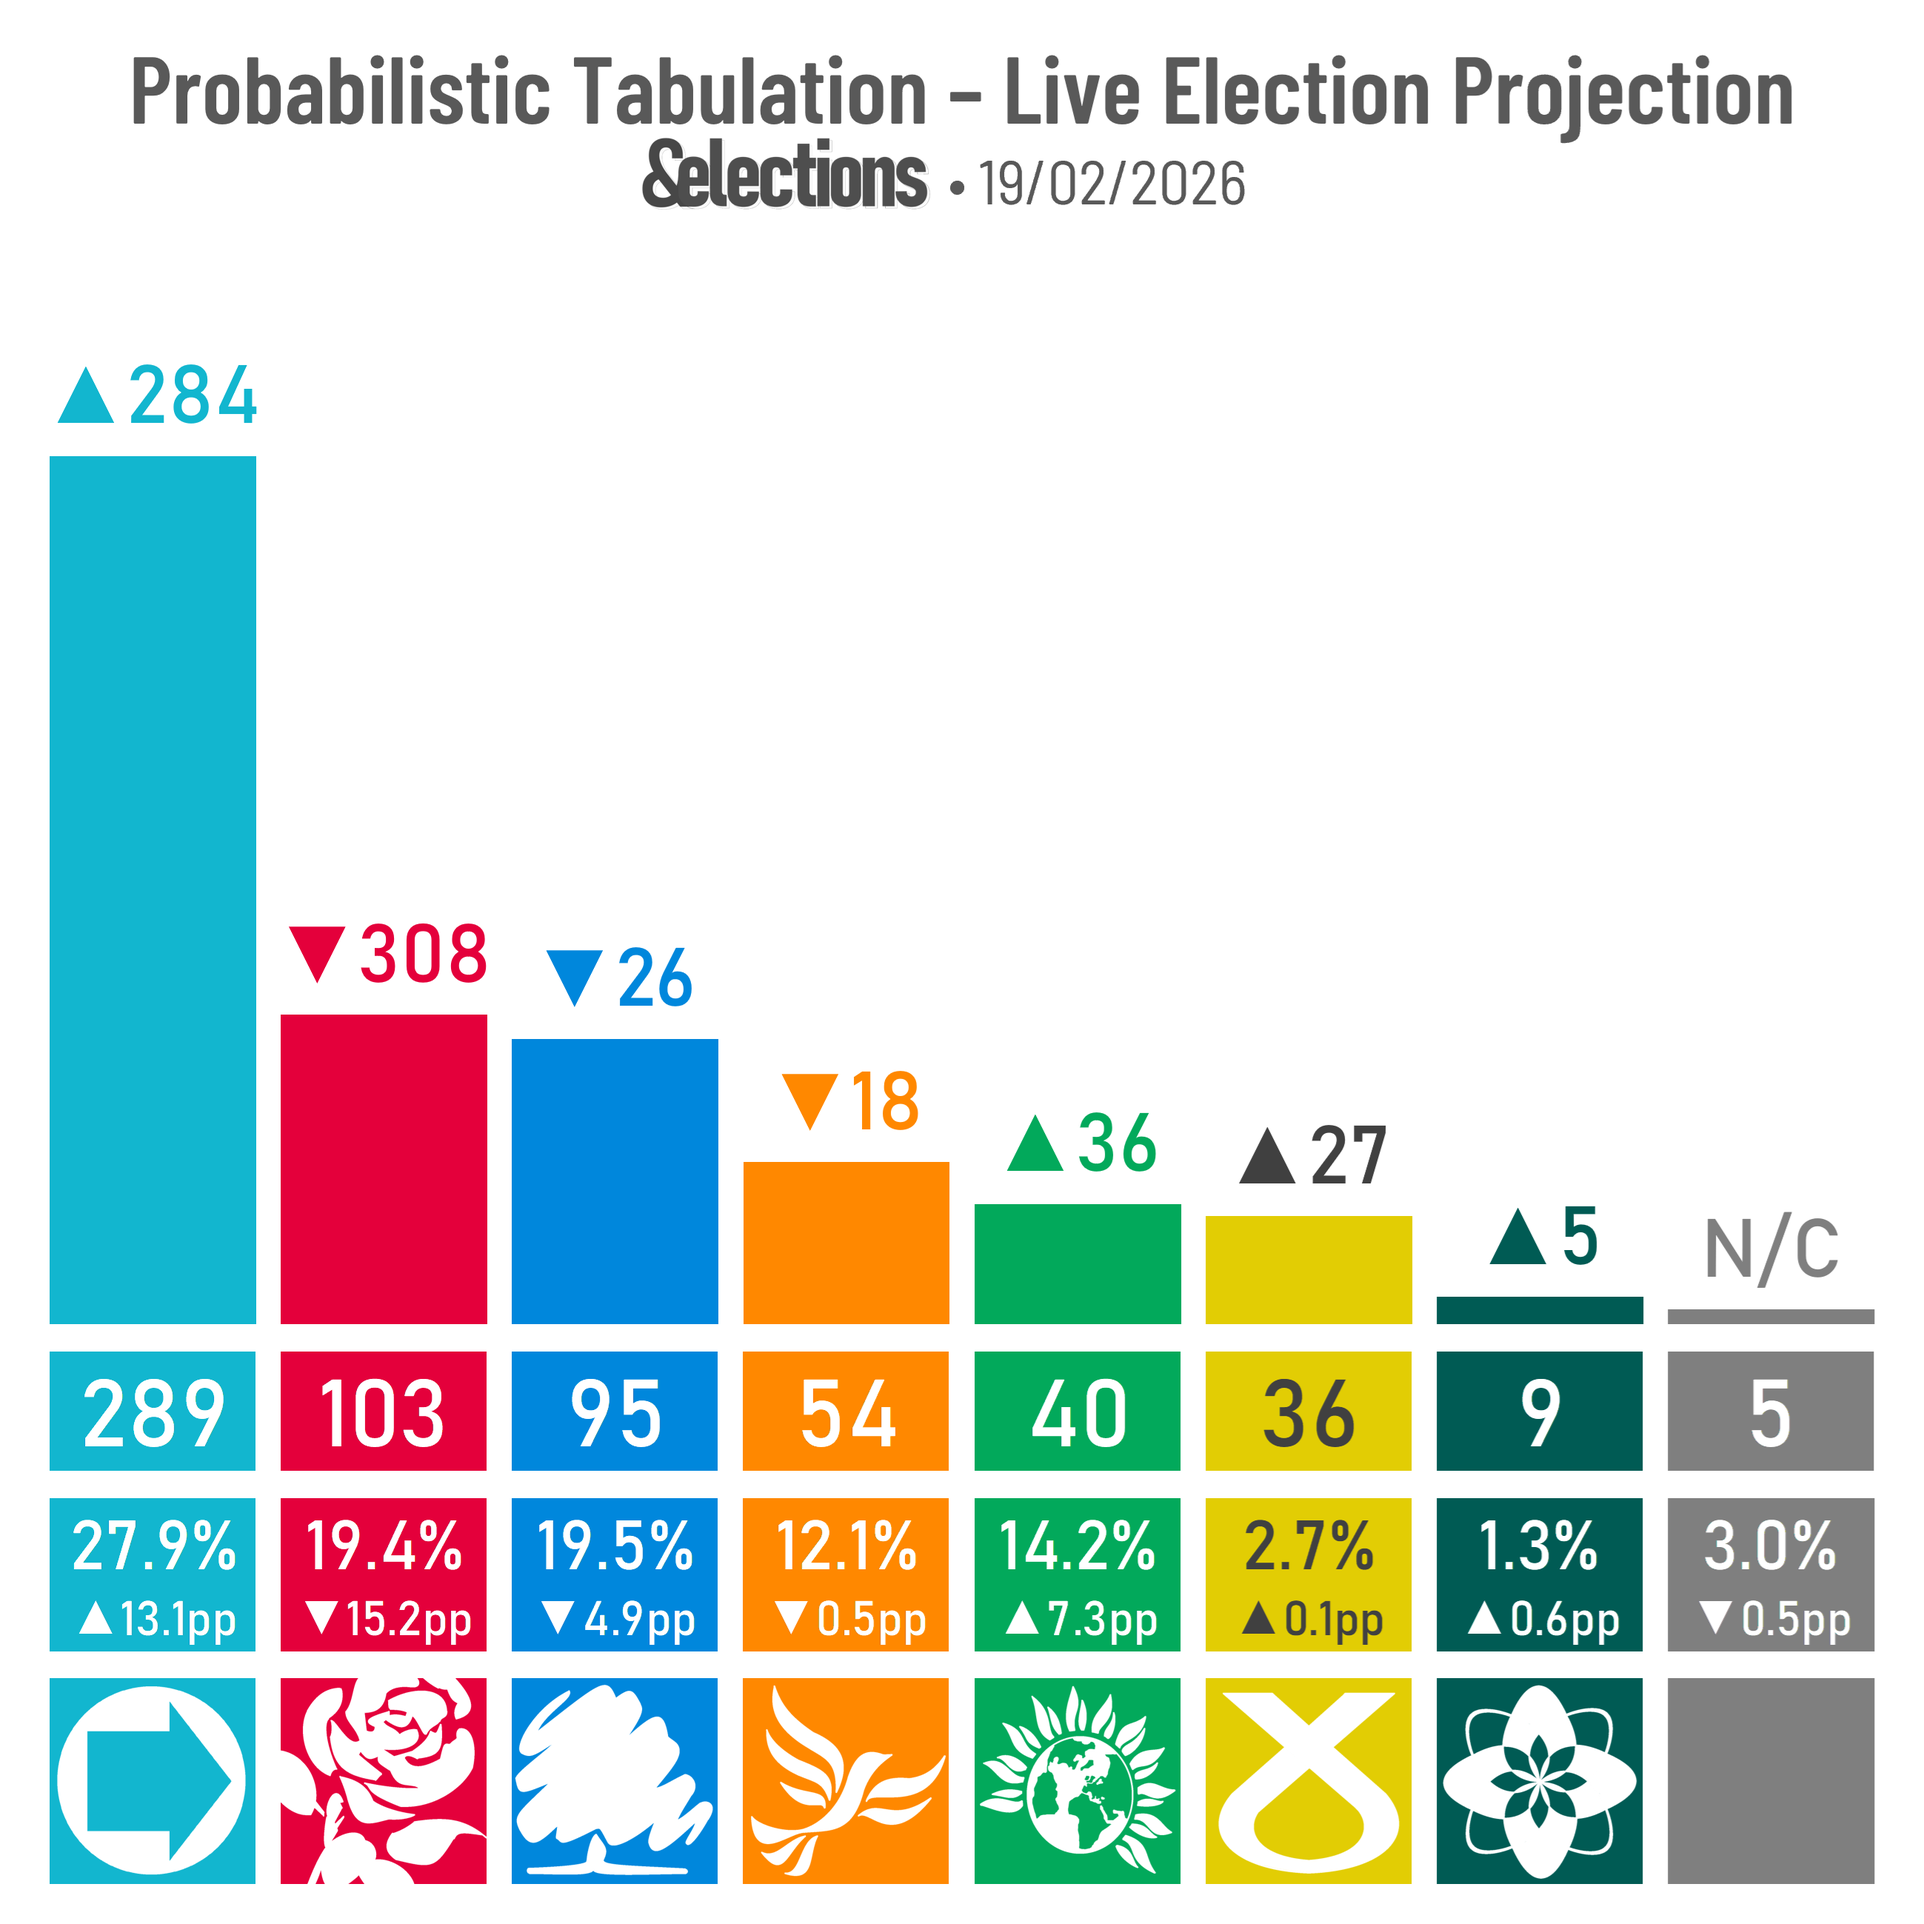
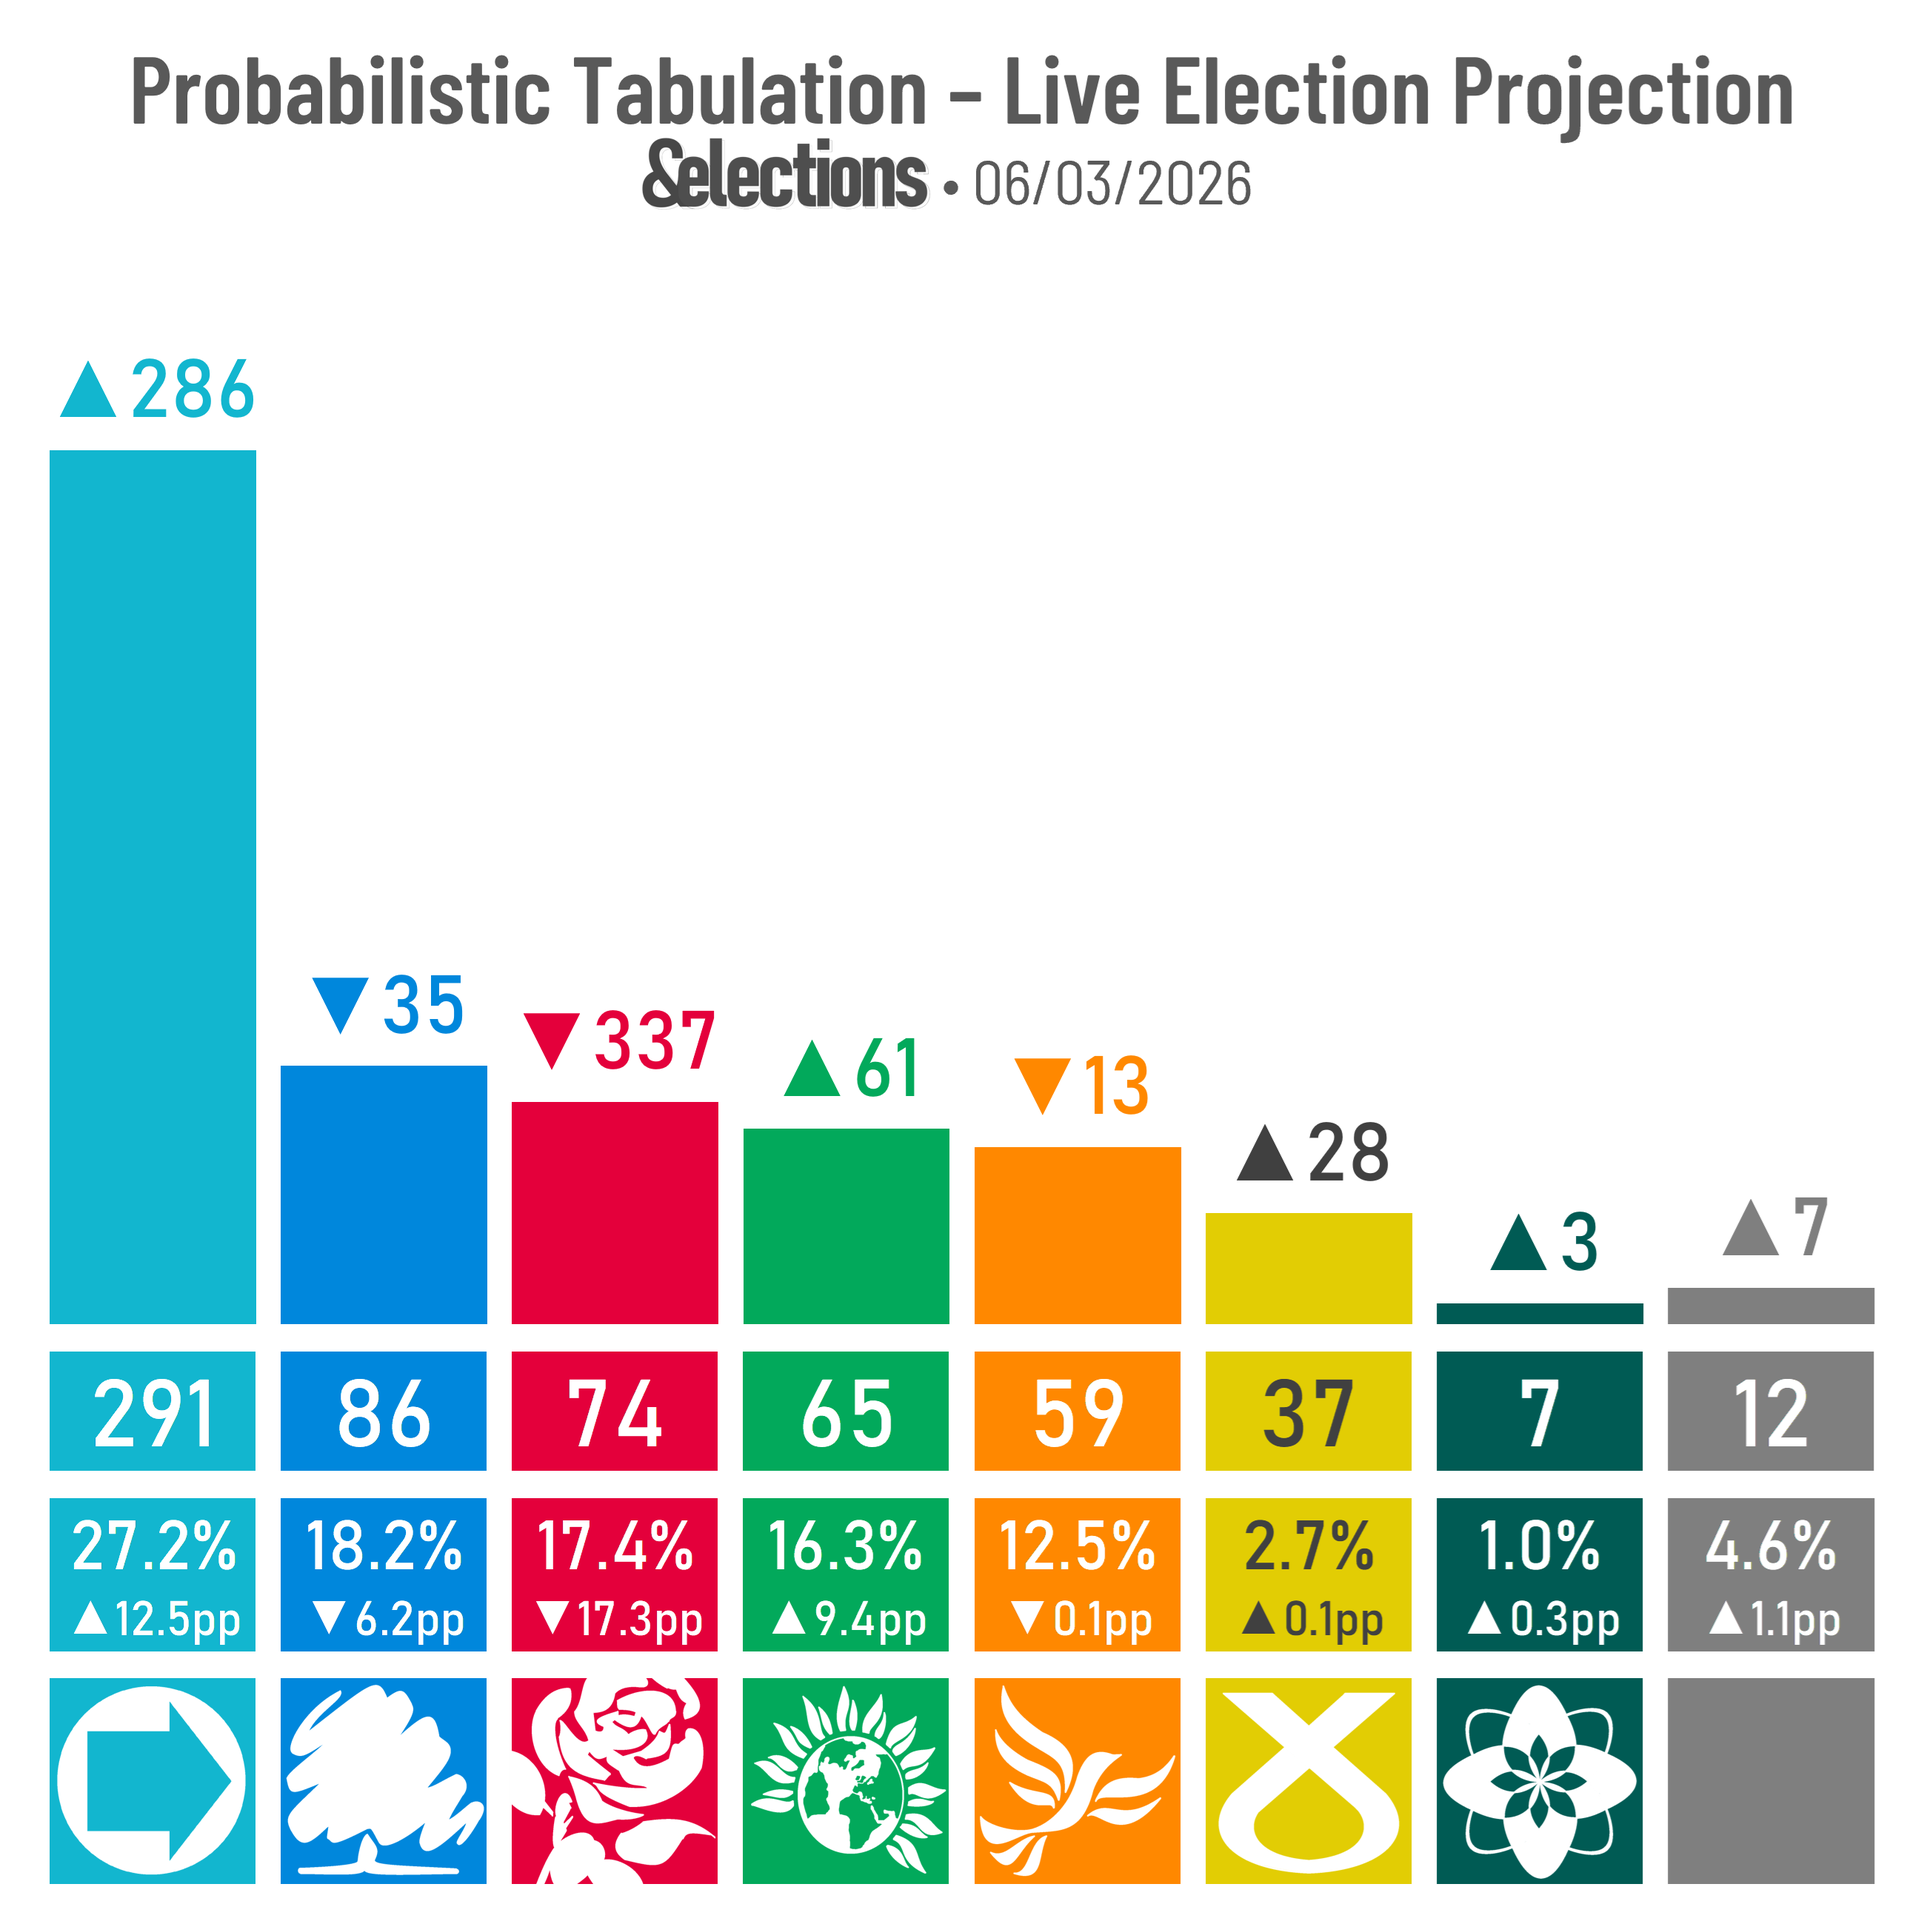
06/03/26 UK Projection
- Added images
- Added blog post

diff --git a/index.html b/index.html
@@ -262,6 +262,10 @@
                 </div>
                 <div class="datacontainer" id="data-blog">
                     <div class="blogtitles-container">
+                        <a href="https://andelections.substack.com/p/060326-uk-projection-the-death-of" title="Open article in new tab" target="_blank" rel="noopener noreferrer">
+                            <h2>06/03/26 UK Projection: The Death of McSweeneyism</h2>
+                            <p>22 Feb 2026 • Labour could suffer an existential threat as the Greens pass their first electoral test under Polanski's leadership with flying colours.</p>
+                        </a>
                         <a href="https://andelections.substack.com/p/220226-holyrood-projection-as-reform" title="Open article in new tab" target="_blank" rel="noopener noreferrer">
                             <h2>22/02/26 Holyrood Projection: As Reform Replace the Tories, Was Sarwar's Gamble Worth It?</h2>
                             <p>22 Feb 2026 • Reform are forecast to form the official opposition in Scotland, but as Labour trundle along, was Sarwar's reproach of Starmer worth it?</p>
